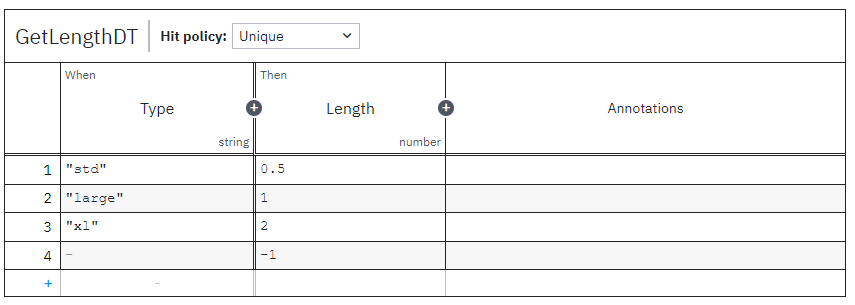
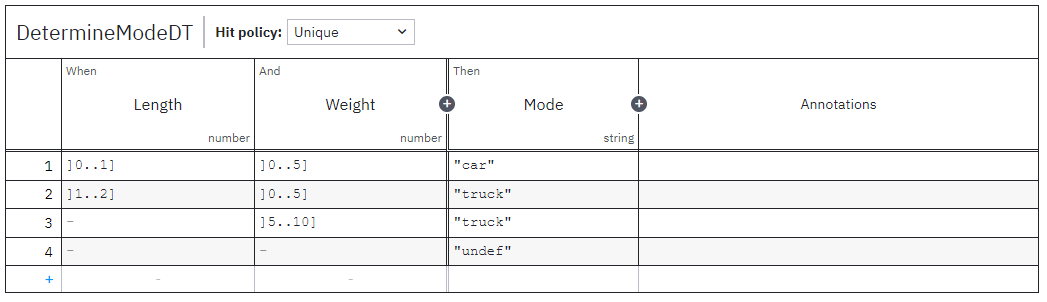
Fixed screenshot

diff --git a/src/main/java/dellapenna/personal/bpmn/BPMNModelTest.java b/src/main/java/dellapenna/personal/bpmn/BPMNModelTest.java
@@ -116,16 +116,5 @@ public class BPMNModelTest {
         //FeelTranslator ft = new ToJavaFeelTranslator();
         //System.out.println(ft.generateBpmnSource("abs(x)>1 and (a=\"w\" or (b in [1..4]))"));
         //System.out.println(ft.generateBpmnSource("a.b=c"));        
-//
-//        DmnModelInstance dmnInstance = Dmn.readModelFromFile(new File("diagram_1.dmn"));
-//        DMNTranslator<String> dt = new ToJavaDMNTranslator();
-//        //((AbstractDMNTranslator) dt).dump(dmnInstance);
-//        out.write(dt.translate(dmnInstance));
-//
-//        out.newLine();
-//        out.newLine();
-//
-        //((AbstractBPMNTranslator) bt).dump(bpmnInstance);
-//Bpmn.writeModelToFile(new File("compile.bpmn"), modelInstance);
     }
 }
